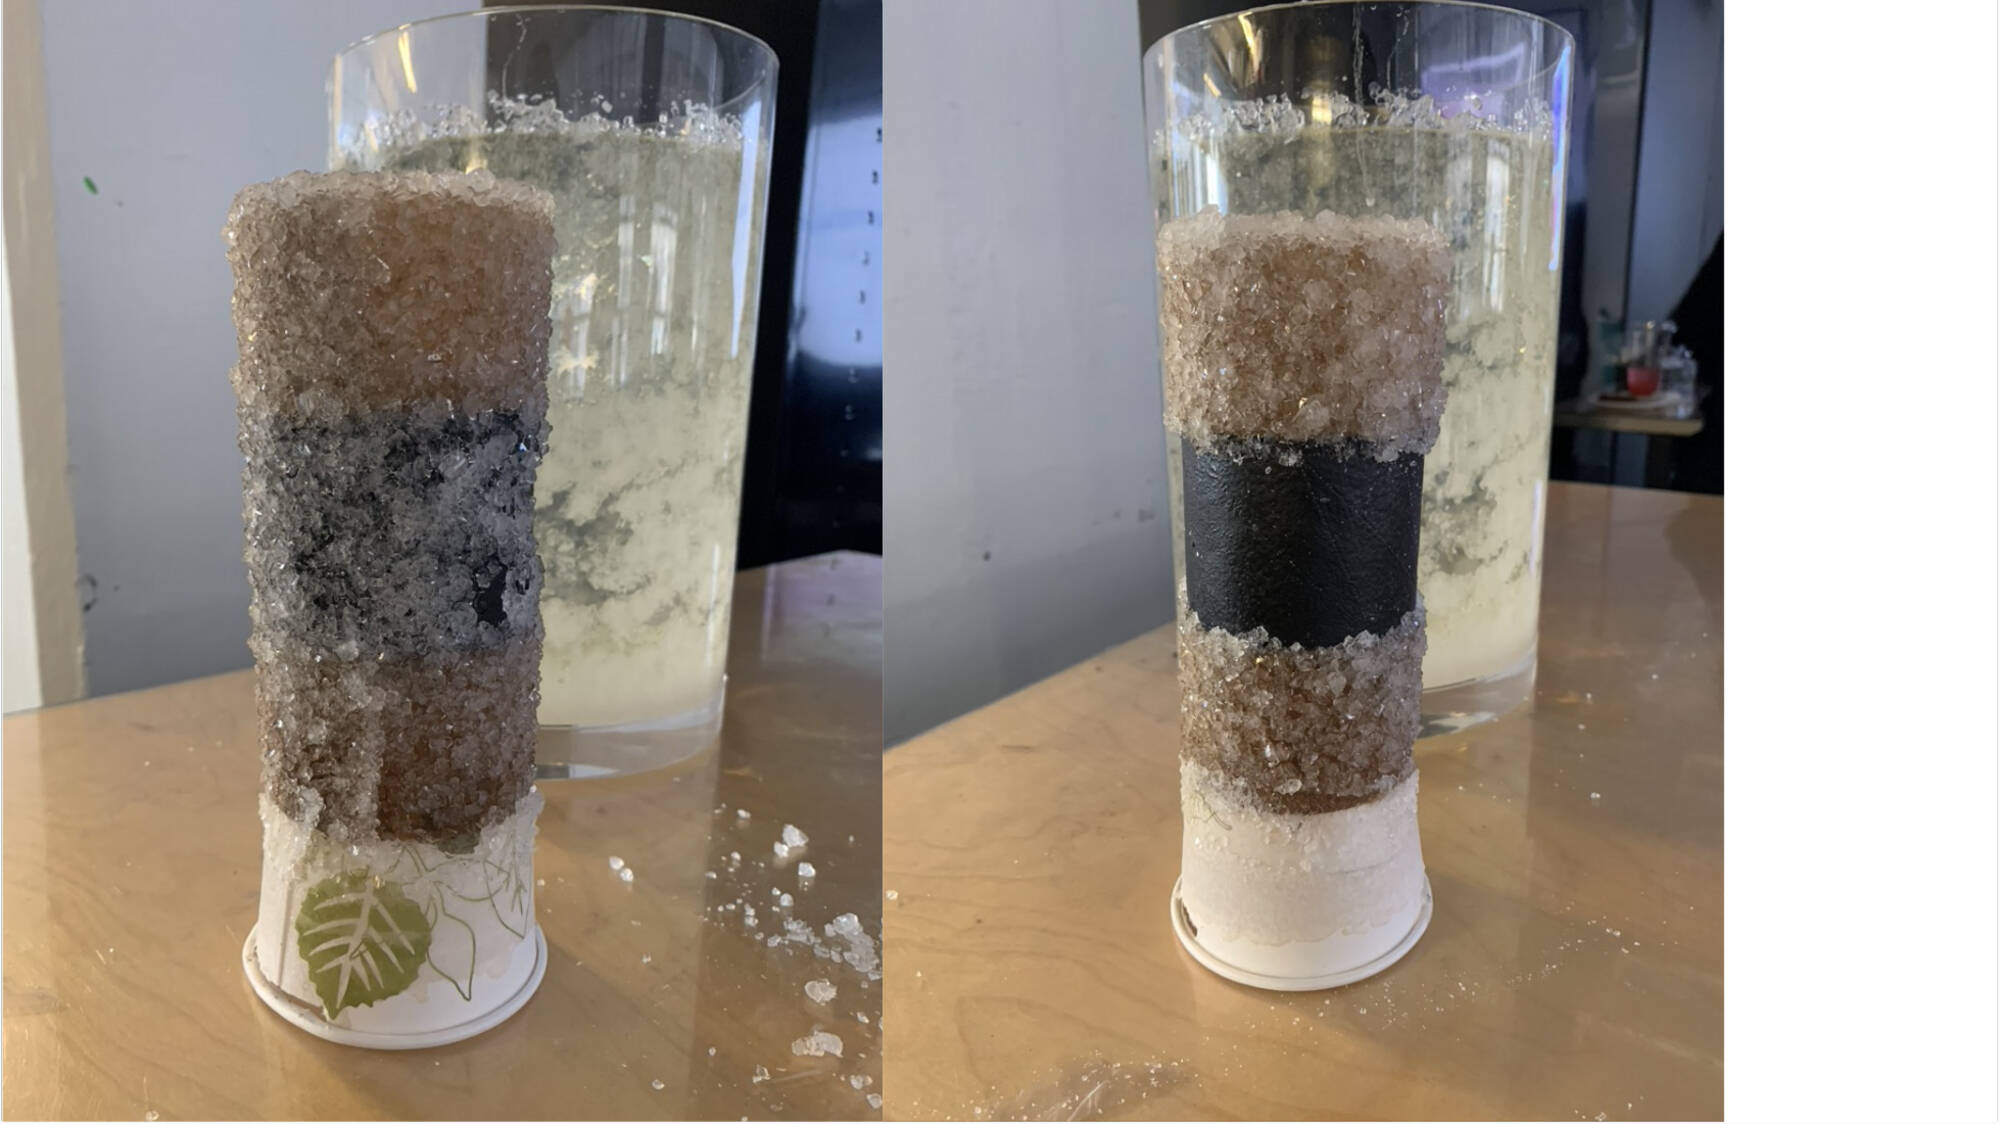
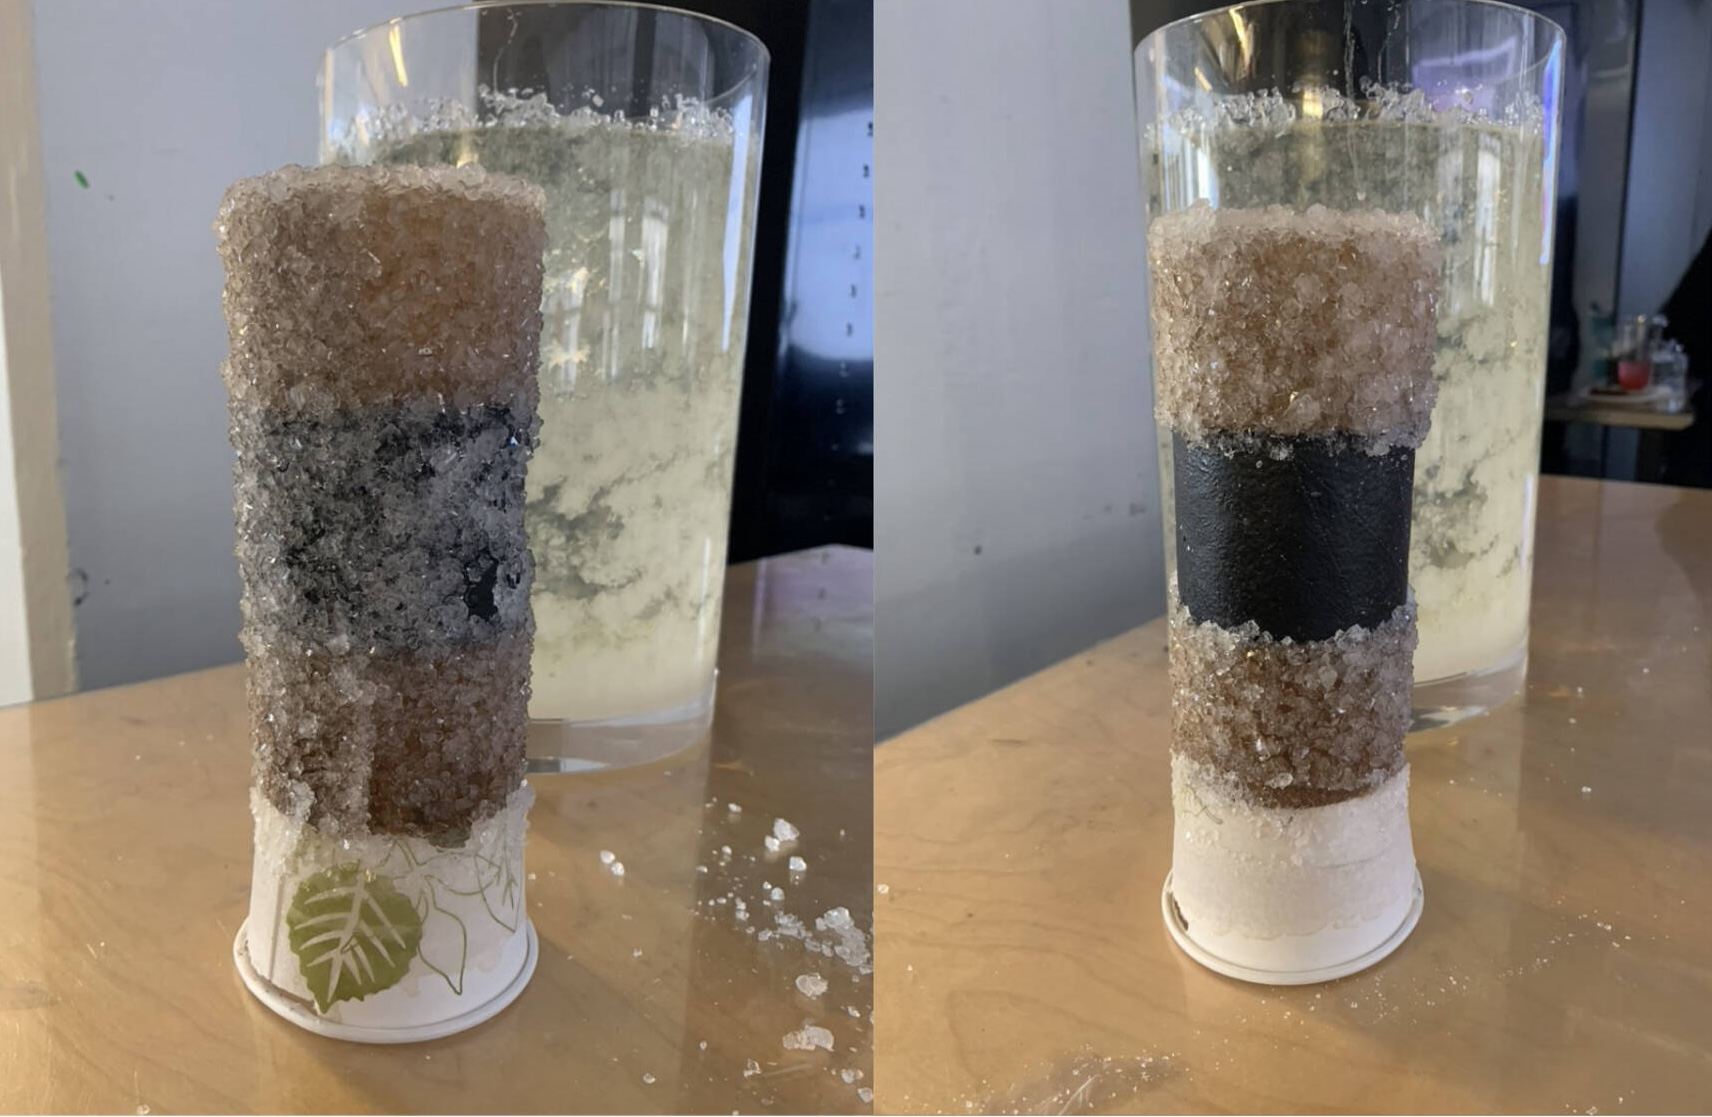
added captions to 402A and collapsed

diff --git a/project_402A.html b/project_402A.html
@@ -76,7 +76,7 @@
 							
 							
 							<p>This page presents a summary of my final project for 4.02A Introduction to Design Intensive over January 2022.</p>
-							<p>The prompt was "Vessel for Growth". I attempted to use crystal growth as a method for solidifying origami structures in the context of 
+							<p>The prompt was "Vessel for Growth". I attempted to use crystal growth of Borax as a method for solidifying origami structures in the context of 
 								"deploying" flatpacked material, and "selective hardening" to change the dynamics of folded structures. 
 							</p>
 							<p>
@@ -86,68 +86,85 @@
 								paper structure. In my final presentation, I collapsed the pre-scored pattern in a live demonstration to show the kresling mechanism in action. Although the pre-scored pattern was not effective for programming the collapse, new creases that accomplish the same motion were formed instead.
 							</p>
 							
-							<div>
-									<img src="4.02A/kresling_sketch.jpg" alt="" height="500" > 
-							</div>
 							<div style="text-align:center;">
-								
-									<img src="4.02A/origami_in_engineering.jpg" alt="" height="500" > 
-								
+								<img src="4.02A/kresling_sketch.jpg" alt="" height="400" > 
 							</div>
+							<figcaption style="text-align:center;"> <b>Figure:</b> Example test structures for selective hardening (left) and deploying (right)</figcaption><br><br>
+							
+							<div style="text-align:center;">
+								<img src="4.02A/treatment_sketch.jpg" alt="" height="400" > 
+							</div>
+							<figcaption style="text-align:center;"> <b>Figure:</b> Treatement process for selective hardening</figcaption><br><br>
+							
+							<div style="text-align:center;">
+								<img src="4.02A/origami_in_engineering.jpg" alt="" height="400" > 
+							</div>
+							<figcaption style="text-align:center;"> <b>Figure:</b> Prior use of origami mechanisms and deployement</figcaption><br><br>
+
+
 							<h2 id="material_tests">Material Tests</h2>
 							<div style="text-align:center;">
-								
-									<img src="4.02A/paper_types.jpg" alt="" height="500" > 
-								
+								<img src="4.02A/paper_types.jpg" alt="" height="400" > 
 							</div>
+							<figcaption style="text-align:center;"> <b>Figure:</b> Testing crystal growth on different materials</figcaption><br><br>
+
 							<div style="text-align:center;">
-								
-									<img src="4.02A/treatment_types.jpg" alt="" height="500" > 
-								
+								<img src="4.02A/treatment_types.jpg" alt="" height="400" > 
 							</div>
+							<figcaption style="text-align:center;"> <b>Figure:</b> Investigating effects of tape, varnish treatement, and laser etching on crystal growth</figcaption><br><br>
+
 							<div style="text-align:center;">
-								
-									<img src="4.02A/scoring_types.jpg" alt="" height="500" > 
-								
+								<img src="4.02A/scoring_types.jpg" alt="" height="400" > 
 							</div>
+							<figcaption style="text-align:center;"> <b>Figure:</b>Laser scored paper (left) and effect of different dash spacing(right)</figcaption><br><br>
+
 							<h2 id="deployment">Deployment</h2>
 							<div style = "text-align:center;">
-								<video width="auto" height="500" controls>
+								<video width="auto" height="400" controls>
 								<source src="4.02A/Miura_Ori_mechanism.mp4" type="video/mp4" center>
 								Your browser does not support the video tag.
 							</video></span></div>
+							<figcaption style="text-align:center;"> <b>Figure:</b> Compressing the paper along the creases</figcaption><br><br>
+
 							<div style = "text-align:center;">
-								<video width="auto" height="500" controls>
+								<video width="auto" height="400" controls>
 								<source src="4.02A/Miura_deployment.mp4" type="video/mp4" center>
 								Your browser does not support the video tag.
 							</video></span></div>
+							<figcaption style="text-align:center;"> <b>Figure:</b> Deployement of flatpack paper in Borax solution</figcaption><br><br>
+
 							<div style="text-align:center;">
-								
-									<img src="4.02A/miura_crystals.jpg" alt="" height="500" > 
-								
+								<img src="4.02A/miura_crystals.jpg" alt="" height="400" > 
 							</div>
+							<figcaption style="text-align:center;"> <b>Figure:</b> Resulting rigid structure of deployed flatpack paper</figcaption><br><br>
+
 							<h2 id="selective_hardening">Selective hardening</h2>
-							
 							<div style="text-align:center;">
-								
-									<img src="4.02A/kresling_process.jpg" alt="" height="500" > 
-								
+								<img src="4.02A/kresling_process.jpg" alt="" height="400" > 
 							</div>
+							<figcaption style="text-align:center;"> <b>Figure:</b>Process and setup for selective hardening of a Kresling structure</figcaption><br><br>
+
 							<div style = "text-align:center;">
-								<video width="auto" height="500" controls>
+								<video width="auto" height="400" controls>
 								<source src="4.02A/Laser_cutting_Kresling_pattern.mp4" type="video/mp4" center>
 								Your browser does not support the video tag.
 							</video></span></div>
+							<figcaption style="text-align:center;"> <b>Figure:</b> Laser cutting of Kresling pattern</figcaption><br><br>
+
 							<div style = "text-align:center;">
-								<video width="auto" height="500" controls>
+								<video width="auto" height="400" controls>
 								<source src="4.02A/Coated_Kresling_Cristalization.mp4" type="video/mp4" center>
 								Your browser does not support the video tag.
 							</video></span></div>
+							<figcaption style="text-align:center;"> <b>Figure:</b> Crystal growth of Kresling structure in Borax solution</figcaption><br><br>
+
 							<div style="text-align:center;">
-								
-									<img src="4.02A/kresling_crystals.jpg" alt="" height="500" > 
-								
+								<img src="4.02A/kresling_crystals.jpg" alt="" height="400" > 
+
+								<img src="4.02A/kresling_collapsed.jpeg" alt="" height="400" > 
 							</div>
+							<figcaption style="text-align:center;"> <b>Figure:</b> Kresling structure with selectively rigid and compliant parts, out of solution (left), with crystals removed (center), and collapsed (right)</figcaption><br><br>
+
 						
 						</div>
 					</div>
